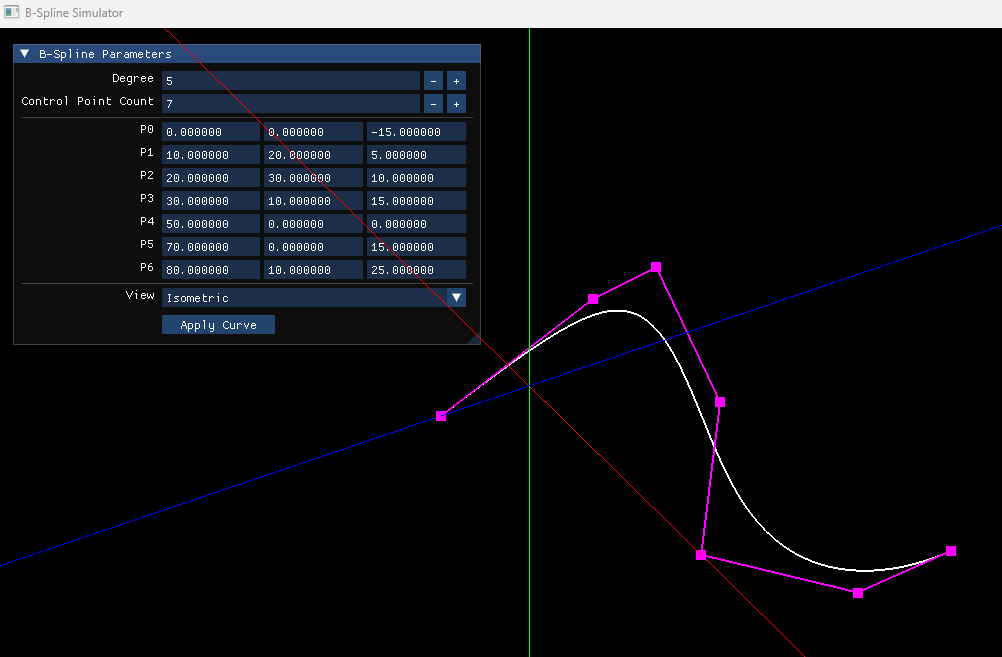
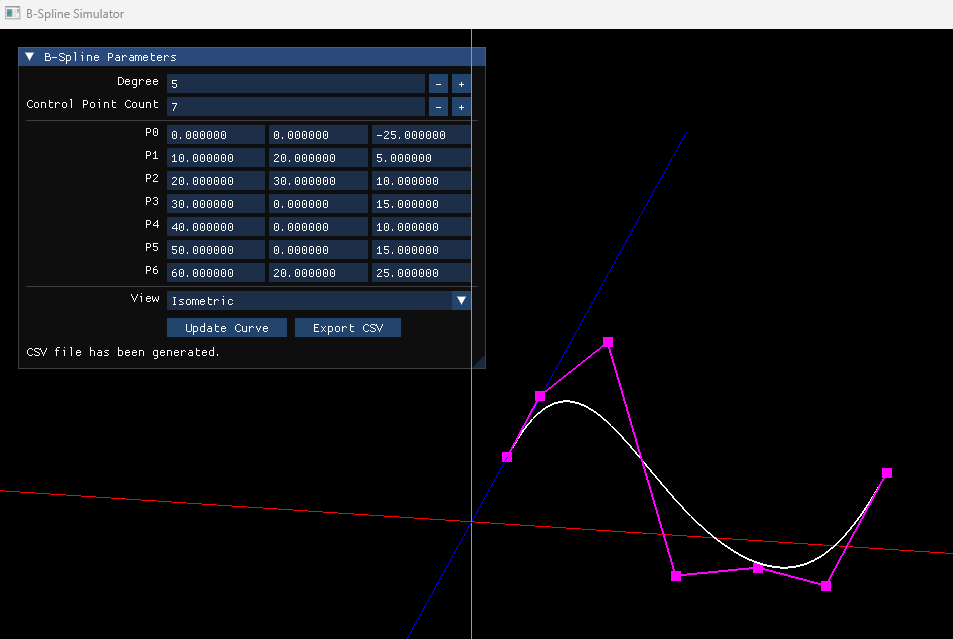
Implemented CSV export function (Control points)

diff --git a/BSplineSimulator/SimulatorUI.cpp b/BSplineSimulator/SimulatorUI.cpp
@@ -1,6 +1,7 @@
 #include "SimulatorUI.h"
 #include "Imgui.h"
 #include "BSplineCurve.h"
+#include "CSVExporter.h"
 
 SimulatorUI::SimulatorUI(const BSplineCurve& curve)
 {
@@ -18,6 +19,10 @@ const char* viewNames[]
 };
 
 static int currentView = 3;
+
+// CSV Export
+bool exportAttempted = false;
+bool exportSuccess = false;
 
 // false : Apply button not clicked
 // true : curve is updated
@@ -95,10 +100,11 @@ bool SimulatorUI::Draw(BSplineCurve& curve, Camera& camera)
 		}
 	}
 
+	// Update Curve
 	ImGui::Spacing();
 	ImGui::Text("                   ");
 	ImGui::SameLine();
-	if (ImGui::Button("  Apply Curve  "))
+	if (ImGui::Button("  Update Curve  "))
 	{
 		if (valid)
 		{
@@ -115,6 +121,30 @@ bool SimulatorUI::Draw(BSplineCurve& curve, Camera& camera)
 		ImGui::EndDisabled();
 	}
 
+	// Export CSV file
+	ImGui::SameLine();
+	if (ImGui::Button("  Export CSV  "))
+	{
+		exportAttempted = true;
+		std::string fileName = "control_points.csv";
+		exportSuccess = CSVExporter::ExportControlPoints(curve, fileName);
+	}
+
+	// Export CSV success/fail message
+	ImGui::Spacing();
+	if (exportAttempted)
+	{
+		if (exportSuccess)
+		{
+			ImGui::Text("CSV file has been generated.");
+		}
+		else
+		{
+			ImGui::TextColored(ImVec4(1.0f, 0.3f, 0.3f, 1.0f),
+				"CSV file generation has been failed.");
+		}
+	}
+	
 	ImGui::End();
 	return curveUpdated;
 }

diff --git a/BSplineSimulator/CSVExporter.cpp b/BSplineSimulator/CSVExporter.cpp
@@ -1,0 +1,36 @@
+#include "CSVExporter.h"
+#include <fstream>
+#include <iomanip>
+
+bool CSVExporter::ExportControlPoints(const BSplineCurve& curve, const std::string& fileName)
+{
+	// create a new csv file or overwrite if the file already exists
+	std::ofstream file(fileName);
+
+	// returns false in case the file couldnt be generated (the file is open)
+	if (!file.is_open())
+	{
+		return false;
+	}
+
+	// set the precision of the numbers exported
+	file << std::fixed << std::setprecision(6);
+
+	// CSV header
+	file << "Index,X,Y,Z\n";
+
+	// write each control point at each line
+	for (std::size_t i = 0; i < curve.ControlPoints.size(); ++i)
+	{
+		const Point3D& point = curve.ControlPoints[i];
+
+		file <<"P" << i << ", "
+			<< point.X << ","
+			<< point.Y << ","
+			<< point.Z << "\n";
+	}
+
+	file.close();
+
+	return true;
+}

diff --git a/BSplineSimulator/CSVExporter.h b/BSplineSimulator/CSVExporter.h
@@ -1,0 +1,12 @@
+#pragma once
+#include <string>
+#include "BSplineCurve.h"
+
+class CSVExporter
+{
+public:
+	static bool ExportControlPoints(const BSplineCurve& curve, const std::string& fileName);
+	static bool ExportKnotVector(const BSplineCurve& curve, const std::string& fileName);
+	static bool ExportCurveSamples(const BSplineCurve& curve, const std::string& fileName, int sampleCount);
+	static bool ExportBasisFunctions(const BSplineCurve& curve, const std::string& fileName, int sampleCount);
+};
